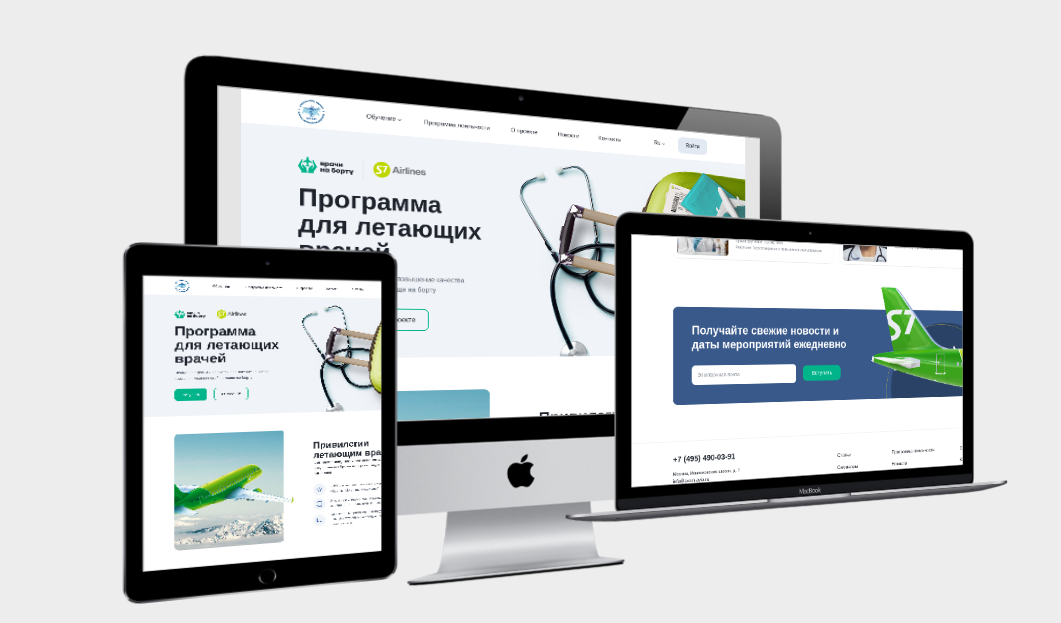
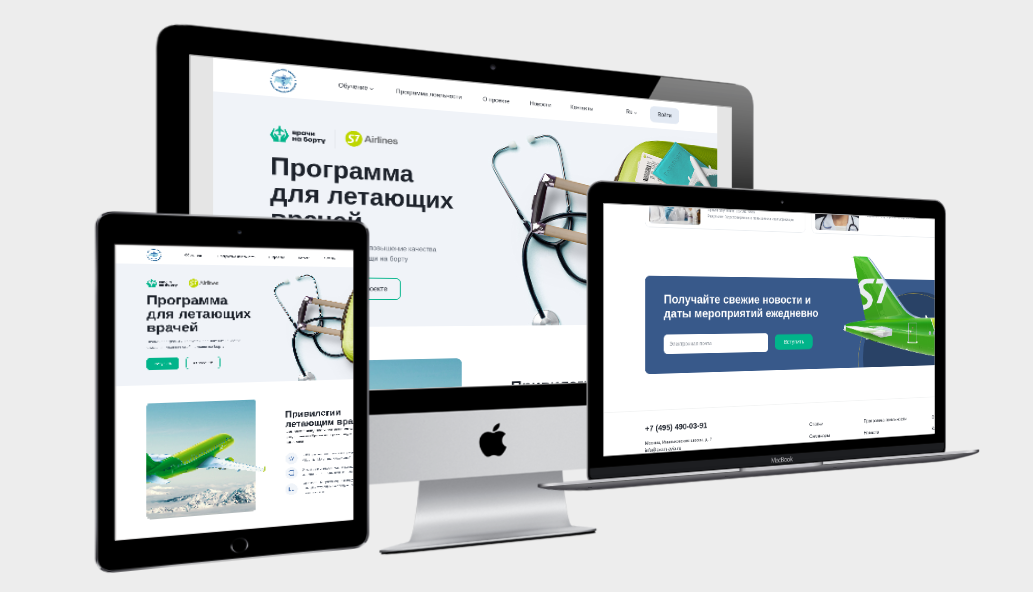
fixed portfolio cards.. smaller and fixed size

Changed region(s): [[0.0929, 0.0304, 0.9603, 0.973]]

diff --git a/src/components/PortfolioCard/PortfolioCard.css b/src/components/PortfolioCard/PortfolioCard.css
@@ -7,19 +7,21 @@
   justify-items: center;
 }
 .card__image {
-  width: 60%;
+  width: 45rem;
+  height: 25rem;
   margin: 1.2rem;
+  display: inline-flex;
 }
 .card__jpg {
   border-radius: 1.6rem;
-  max-width: 100%;
-  max-height: 100%;
+  height: 100%;
+  width: -webkit-fill-available;
 }
 .card__text {
   margin: 2.1rem;
 
   margin-top: 2.5rem;
-  width: 40%;
+  width: 70%;
   color: #1d222b;
   display: flex;
   flex-direction: column;

diff --git a/src/index.css b/src/index.css
@@ -189,12 +189,8 @@ a {
   flex: 1;
 }
 
-.icon-wrapper {
-  display: flex;
-  align-items: center;
-  justify-content: center;
-  border-radius: 50%;
-  height: 2rem;
-  width: 2rem;
-  background-color: grey;
+@media (max-width: 1024px) {
+  .row {
+    width: 76rem;
+  }
 }

diff --git a/src/pages/Portfolio/Portfolio.js b/src/pages/Portfolio/Portfolio.js
@@ -2,7 +2,6 @@ import React from 'react';
 
 import './Portfolio.css';
 import db from '../../dummyDB';
-import img1 from '../../img/cards/small/food-travel.png';
 
 import PortfolioCard from '../../components/PortfolioCard/PortfolioCard';
 
